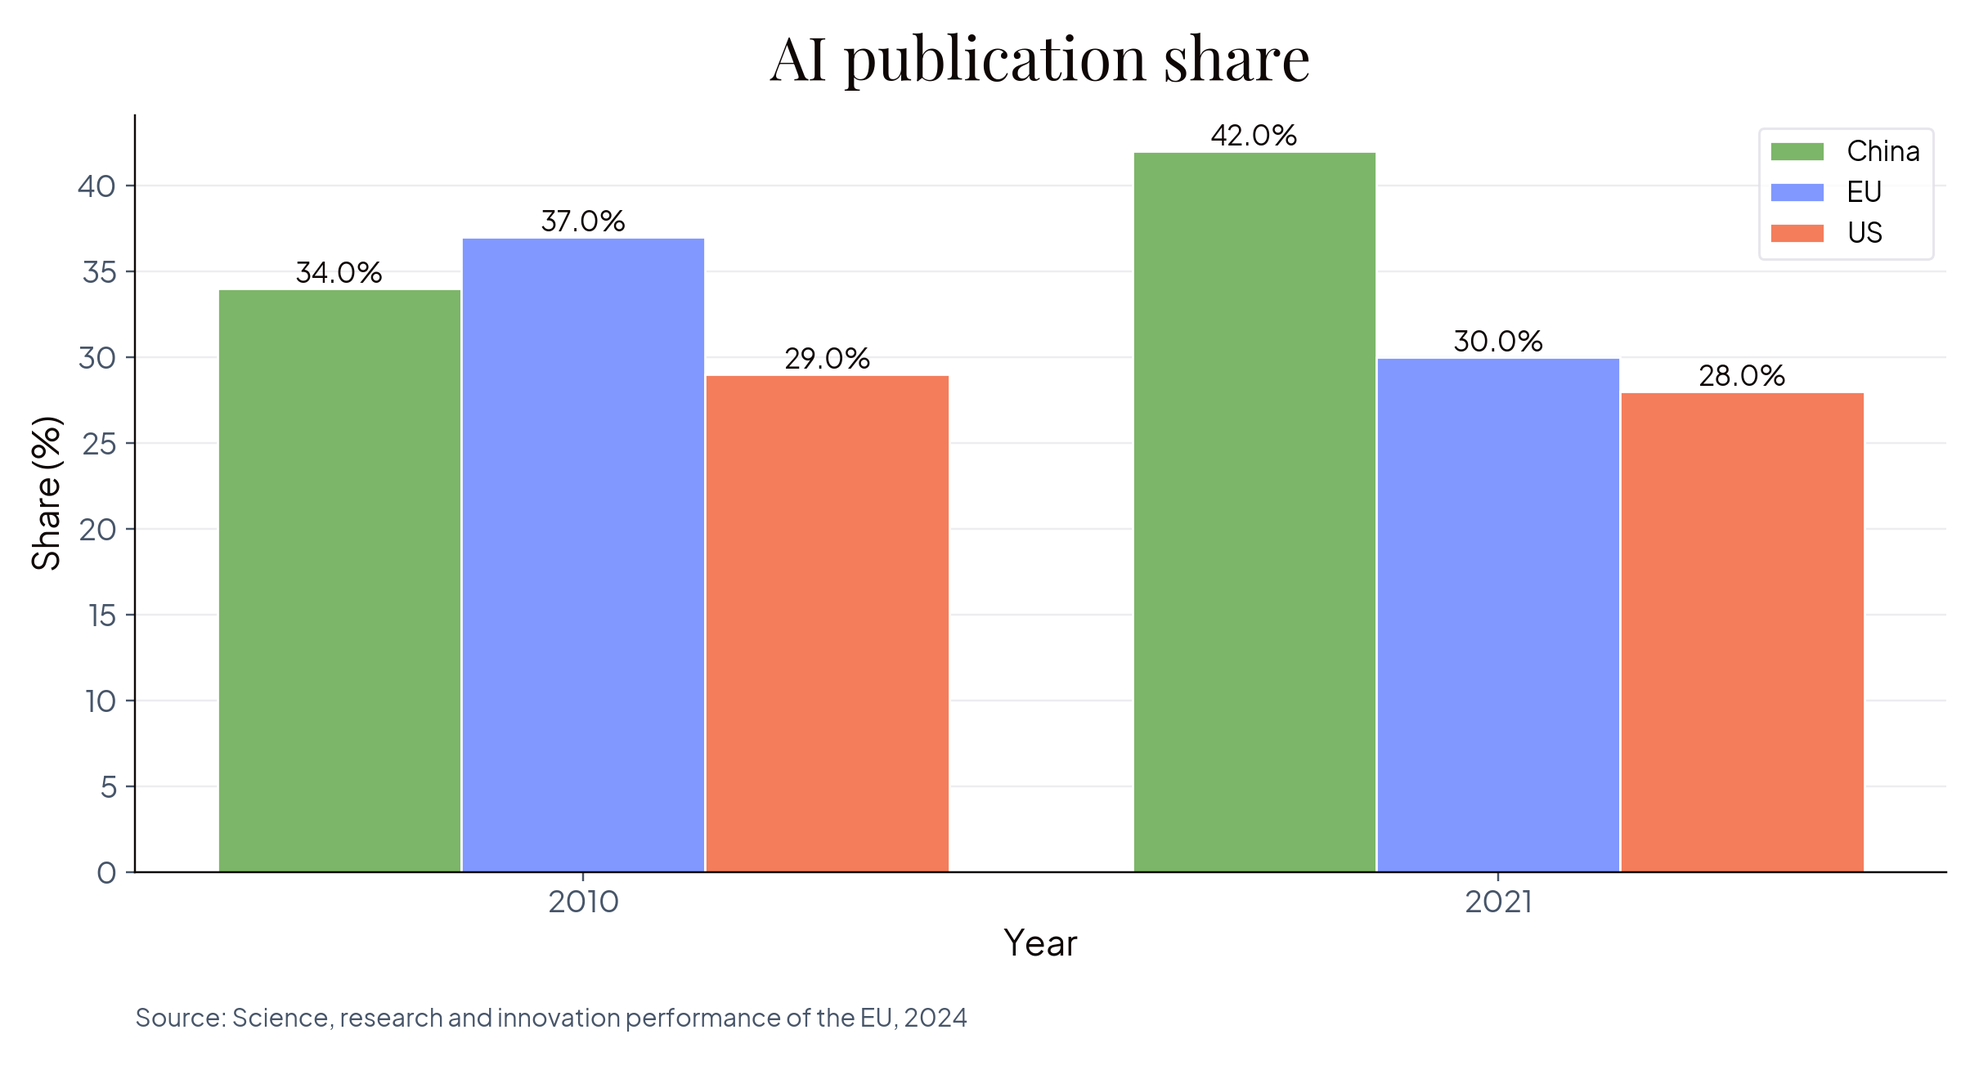
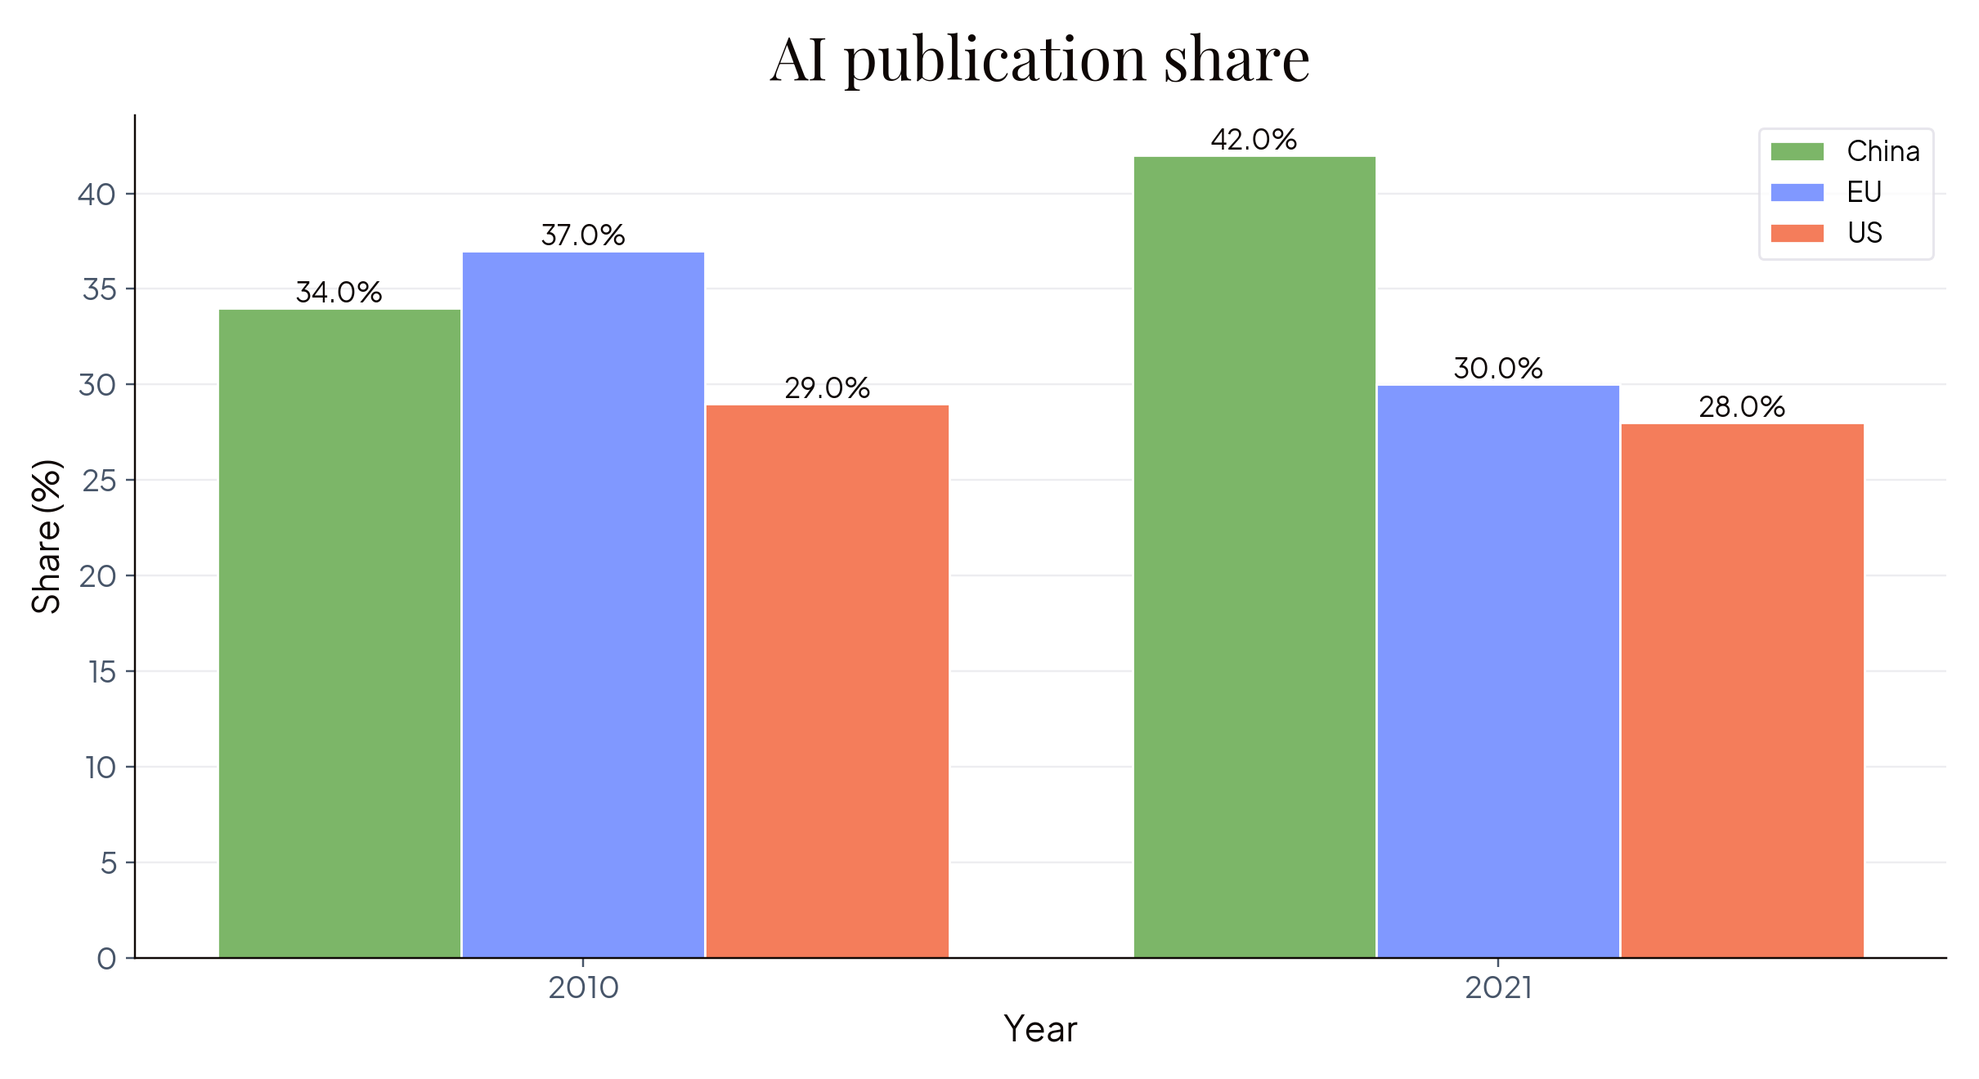
Revise policy slides and remove source annotations from charts
Streamline slide deck: remove placeholder slides, rename "Double R&D
spending" to "Fund all excellent science", expand meta-science and AI
slides with concrete examples, and trim bureaucracy content. Remove
source text from chart images to reduce clutter.

diff --git a/index.html b/index.html
@@ -890,23 +890,7 @@
                 <p class="small-text" style="margin-top: 0.2em;">Source: Heitor Report &mdash; Align Act Accelerate, Sept 2024</p>
             </section>
 
-            <!-- SLIDE 6: Current funding structures block breakthrough innovation -->
-            <section>
-                <div class="slide-header">
-                    <div class="header-left">
-                        <div class="header-line-short"></div>
-                        <div class="header-brand"><strong>c.f.g</strong> <em></em></div>
-                    </div>
-                    <div class="header-right">
-                        <div class="header-line-long"></div>
-                        <div class="header-number"></div>
-                    </div>
-                </div>
-                <h2>Current funding structures block breakthrough innovation</h2>
-                <p style="font-size: 0.7em; color: #475569; margin-bottom: 0.6em;">[To be added: research on how current funding structures block breakthrough innovation]</p>
-            </section>
-
-            <!-- SLIDE 7: Everyone agrees reform R&D now -->
+            <!-- SLIDE: Everyone agrees reform R&D now -->
             <section>
                 <div class="slide-header">
                     <div class="header-left">
@@ -934,8 +918,8 @@
                 </div>
             </section>
 
-            <!-- SLIDE 8: Framework Programmes -->
-            <section>
+            <!-- SLIDE: Section Break - The opportunity -->
+            <section class="center-slide section-break" data-background-image="images/section-break-background.png" data-background-size="cover" data-background-position="center">
                 <div class="slide-header">
                     <div class="header-left">
                         <div class="header-line-short"></div>
@@ -946,28 +930,10 @@
                         <div class="header-number"></div>
                     </div>
                 </div>
-                <h2>Framework Programmes are Europe's main R&amp;D instrument</h2>
-                <p style="font-size: 0.6em; color: #475569; margin-bottom: 0.2em;"><em>Timeline: FP1 (1984) &rarr; FP10 (2028)</em></p>
-                <div class="two-column">
-                    <div class="col">
-                        <p><strong>Framework Programmes</strong> are the EU's multi-year research and innovation funding instruments: Europe's way of coordinating and funding science at continental scale.</p>
-                        <ul>
-                            <li><strong>7-year cycles</strong> aligned with EU budget (Multiannual Financial Framework)</li>
-                            <li><strong>Cross-border collaboration:</strong> Typically requires consortia from multiple member states</li>
-                            <li><strong>Competitive funding:</strong> Open calls, peer review, excellence-based selection</li>
-                            <li><strong>Bottom-up + top-down:</strong> Mix of researcher-led proposals and strategic priorities (Missions)</li>
-                        </ul>
-                    </div>
-                    <div class="col">
-                        <p><strong>Evolution:</strong> Started modest in 1984 (FP1: &euro;3.8B), now reaching &euro;175B (FP10): a <strong>46x increase</strong></p>
-                        <div class="key-insight" style="margin-top: 0.6em;">
-                            <strong>Think of it as:</strong> Europe's R&amp;D operating system, the infrastructure layer that funds everything from blue-sky physics to climate tech startups.
-                        </div>
-                    </div>
-                </div>
+                <h1 class="section-title">The opportunity</h1>
             </section>
 
-            <!-- SLIDE 9: FP10 represents 25% of European public R&D -->
+            <!-- SLIDE: FP10: €175 billion over 7 years -->
             <section>
                 <div class="slide-header">
                     <div class="header-left">
@@ -979,30 +945,12 @@
                         <div class="header-number"></div>
                     </div>
                 </div>
-                <h2>FP10 represents 25% of European public R&amp;D</h2>
-                <div class="two-column">
-                    <div class="col">
-                        <p><strong>European public R&amp;D landscape:</strong></p>
-                        <ul>
-                            <li><strong>Total EU public R&amp;D spend:</strong> ~&euro;100B annually (all member states combined)</li>
-                            <li><strong>FP10:</strong> &euro;175B over 7 years = <strong>&euro;25B/year</strong> (roughly 25% of European public R&amp;D)</li>
-                            <li><strong>National programmes:</strong> Germany (~&euro;40B/yr), France (~&euro;20B/yr), others vary widely</li>
-                            <li><strong>Comparison:</strong> US NSF (~&euro;8B/yr), NIH (~&euro;40B/yr), total US federal R&amp;D (~&euro;140B/yr)</li>
-                        </ul>
-                    </div>
-                    <div class="col">
-                        <p><strong>Why FP matters disproportionately:</strong></p>
-                        <ul>
-                            <li><strong>Sets standards:</strong> National programmes often follow FP structures and priorities</li>
-                            <li><strong>Enables scale:</strong> Cross-border projects impossible at national level (CERN, EuroHPC, clinical trials)</li>
-                            <li><strong>Strategic direction:</strong> Missions and challenges signal where Europe thinks science should go</li>
-                            <li><strong>Talent magnet:</strong> Horizon grants carry prestige, attract top researchers</li>
-                        </ul>
-                        <div class="key-insight" style="margin-top: 0.4em;">
-                            <strong>The catch:</strong> Despite significant funding, Europe's <strong>innovation output lags inputs</strong>, especially in translating research to commercial success.
-                        </div>
-                    </div>
-                </div>
+                <h2>FP10: &euro;175 billion over 7 years</h2>
+                <ul style="font-size: 0.7em; padding-left: 1.2em; max-width: 900px; line-height: 1.6;">
+                    <li>The largest coordinated research programme in the world</li>
+                    <li>Sets the template that national programmes follow</li>
+                    <li>Decisions made in the next 18 months lock in European science through 2034</li>
+                </ul>
             </section>
 
             <!-- SLIDE 10: Four bottlenecks block European innovation -->
@@ -1051,10 +999,6 @@
                             <li>No equivalent of NIH or NSF as unifying institution</li>
                         </ul>
                     </div>
-                </div>
-                <div class="key-insight" style="margin-top: 0.4em;">
-                    <strong>Draghi Report:</strong> &ldquo;The innovation gap stems from funding structures that discourage risk-taking, not insufficient investment.&rdquo;<br>
-                    <strong>Translation: We can fix this without spending more: we need to spend smarter.</strong>
                 </div>
             </section>
 
@@ -1122,8 +1066,8 @@
                 <h2>Four policies can help close Europe's scientific gap</h2>
                 <div style="display: flex; gap: 0.6em; font-size: 0.6em; margin-top: 0.5em;">
                     <div style="flex: 1; background: white; padding: 0.8em; border-radius: 8px; border: 1.5px solid #e2e0e8; border-top: 3.5px solid var(--yellow-dark);">
-                        <h3 style="margin-bottom: 0.3em;">1. Double R&amp;D spending</h3>
-                        <p>Match US/China investment levels</p>
+                        <h3 style="margin-bottom: 0.3em;">1. Fund all excellent science</h3>
+                        <p>Right now, we reject 71% of proposals our own reviewers call excellent</p>
                     </div>
                     <div style="flex: 1; background: white; padding: 0.8em; border-radius: 8px; border: 1.5px solid #e2e0e8; border-top: 3.5px solid var(--red);">
                         <h3 style="margin-bottom: 0.3em;">2. Create a European ARPA</h3>
@@ -1144,7 +1088,7 @@
                 </div>
             </section>
 
-            <!-- SLIDE: Double R&D spending -->
+            <!-- SLIDE: Fund all excellent science -->
             <section>
                 <div class="slide-header">
                     <div class="header-left">
@@ -1156,18 +1100,14 @@
                         <div class="header-number"></div>
                     </div>
                 </div>
-                <h2>Double R&amp;D spending to match competitors</h2>
+                <h2>Fund all excellent science</h2>
                 <div style="font-size: 0.7em; max-width: 900px;">
-                    <p><strong>The gap:</strong> Europe spends 2.2% of GDP on R&amp;D vs 3.5% in US, 2.4% in China (but rising fast)</p>
-                    <p style="margin-top: 0.5em;"><strong>What this means:</strong></p>
                     <ul style="padding-left: 1.2em; line-height: 1.6;">
-                        <li>Draghi Report recommendation: Increase to match competitors</li>
-                        <li>FP10 nearly doubles to &euro;175B, but member states must also step up</li>
-                        <li>Target: &euro;200B+ annually across EU (currently ~&euro;100B)</li>
+                        <li><strong>71% of proposals rated &ldquo;excellent&rdquo; by peer reviewers go unfunded</strong> due to budget constraints (Horizon 2020 ex-post evaluation)</li>
+                        <li>Horizon 2020 would have needed an additional &euro;159 billion to fund all high-quality proposals it received</li>
+                        <li>This isn't a quality problem. Europe produces excellent science. It just refuses to pay for it.</li>
+                        <li>The Heitor Report recommends: increase FP budget to &euro;220 billion + use Seals of Excellence so member states co-fund what the EU can't</li>
                     </ul>
-                    <div class="key-insight" style="margin-top: 0.6em;">
-                        <strong>Why it matters:</strong> You can't win the innovation race while spending half what competitors do.
-                    </div>
                 </div>
             </section>
 
@@ -1205,11 +1145,18 @@
                     </div>
                 </div>
                 <h2>Build a meta-science unit to reform funding</h2>
-                <ul style="font-size: 0.7em; padding-left: 1.2em; max-width: 900px; line-height: 1.6;">
-                    <li>Test and compare different funding mechanisms</li>
-                    <li>Import proven innovations: lotteries, distributed peer review, golden tickets</li>
-                    <li>Make Europe the lab for research funding reform</li>
-                </ul>
+                <div style="font-size: 0.65em; max-width: 1000px;">
+                    <p style="margin-bottom: 0.4em;"><strong>The core insight:</strong> We test the science we fund, but we never test <em>how</em> we fund science. We have no systematic evidence on which funding mechanisms produce the best outcomes.</p>
+                    <p style="margin-bottom: 0.2em;"><strong>What it would do:</strong></p>
+                    <ul style="padding-left: 1.2em; line-height: 1.5; margin-bottom: 0.4em;">
+                        <li>Run randomised experiments comparing different ways of allocating grants</li>
+                        <li>Example: The Volkswagen Foundation already runs lottery-based selection for high-risk proposals &mdash; does it produce better science than peer review?</li>
+                        <li>Example: Distributed peer review (researchers review each other instead of panels) &mdash; does it reduce bias and cost?</li>
+                        <li>Example: Golden tickets, where a single reviewer can fast-track a proposal &mdash; does it catch genius that committees miss?</li>
+                    </ul>
+                    <p style="margin-bottom: 0.3em;"><strong>Where does it sit?</strong> The Heitor Report proposes an &ldquo;experimental unit&rdquo; inside FP10 with maximum flexibility from Commission rules, a significant budget, and the ability to collaborate with any Horizon programme.</p>
+                    <p><strong>What exists already:</strong> The UK's Research on Research Institute (RORI), NSF's internal experiments, the Volkswagen Foundation's lottery pilots. Europe doesn't need to invent this from scratch &mdash; it needs to adopt it at scale.</p>
+                </div>
             </section>
 
             <!-- SLIDE: Use AI to speed up science -->
@@ -1224,12 +1171,27 @@
                         <div class="header-number"></div>
                     </div>
                 </div>
-                <h2>Use AI to speed up science</h2>
-                <ul style="font-size: 0.7em; padding-left: 1.2em; max-width: 900px; line-height: 1.6;">
-                    <li>Reduce bureaucratic burden that currently drowns applicants</li>
-                    <li>Follow NSF's lead in building internal AI platforms</li>
-                    <li>Free up researcher time for actual research</li>
-                </ul>
+                <h2>Use AI to accelerate scientific discovery</h2>
+                <div style="font-size: 0.6em; max-width: 1050px;">
+                    <p style="margin-bottom: 0.2em;"><strong>The opportunity is enormous:</strong></p>
+                    <ul style="padding-left: 1.2em; line-height: 1.45; margin-bottom: 0.4em;">
+                        <li>AlphaFold predicts protein structures in minutes for ~$0.75 that took years of experimental work, and won a Nobel Prize</li>
+                        <li>GraphCast produces 10-day global weather forecasts in under 60 seconds, outperforming the European gold standard, for ~$0.02</li>
+                    </ul>
+                    <p style="margin-bottom: 0.2em;"><strong>Two layers of AI in science need different investments:</strong></p>
+                    <ul style="padding-left: 1.2em; line-height: 1.45; margin-bottom: 0.4em;">
+                        <li><strong>Scientific foundation models</strong> (AlphaFold, GraphCast): Model nature itself, create capabilities that didn't exist before. Europe has the data and infrastructure (EuroHPC) to build these.</li>
+                        <li><strong>AI scientist systems</strong> (Google's CoScientist, Kosmos): Orchestrate the scientific process, from hypothesis generation to experimental design. Could compress research timelines from years to months.</li>
+                    </ul>
+                    <p style="margin-bottom: 0.2em;"><strong>The competitive gap is real:</strong></p>
+                    <ul style="padding-left: 1.2em; line-height: 1.45; margin-bottom: 0.4em;">
+                        <li>The US Genesis Mission (Nov 2025) frames AI as a &ldquo;new Apollo Project&rdquo; for science: transformation at system scale</li>
+                        <li>OpenAI, Anthropic, and Google DeepMind all now treat scientific discovery as a core use case</li>
+                    </ul>
+                    <div class="key-insight" style="margin-top: 0.3em;">
+                        <strong>The implication for FP10:</strong> There is a real chance that by 2030, the way science is done looks fundamentally different from today. FP10 cannot just experiment with AI on the side: it needs to be designed so that AI-enabled research can become a core part of how the programme operates, not bolted on after the fact. That means building in the flexibility now to scale what works, so that if breakthroughs continue, Europe's funding infrastructure can keep pace.
+                    </div>
+                </div>
             </section>
 
             <!-- SLIDE: Cut bureaucracy to the absolute minimum -->
@@ -1245,23 +1207,17 @@
                     </div>
                 </div>
                 <h2>Cut bureaucracy to the absolute minimum</h2>
-                <div class="highlight-box" style="font-size: 0.6em; margin-bottom: 0.5em; border-left-color: var(--purple);">
-                    <p><strong>Heitor Report (October 2024)</strong></p>
-                    <p style="font-style: italic;">&ldquo;Radical simplification and user orientation with a clear focus on efficiency and impact can, and must, make the framework programme a flagship for promoting research, technology and innovation, not just in terms of size but also in terms of execution.&rdquo;</p>
-                </div>
-                <p style="font-size: 0.65em; margin-bottom: 0.3em;"><strong>The numbers (Heitor Report, Box 9.2):</strong></p>
+                <p style="font-size: 0.65em; margin-bottom: 0.3em;"><strong>The numbers:</strong></p>
                 <ul style="font-size: 0.65em; padding-left: 1.2em; max-width: 1000px; line-height: 1.5; margin-bottom: 0.4em;">
-                    <li>Writing one application takes <strong>36&ndash;45 person-days</strong> for the lead applicant, plus <strong>16&ndash;25 days per partner</strong></li>
-                    <li>Success rate: <strong>17%</strong> &mdash; the vast majority of that effort is wasted</li>
-                    <li>Once funded, administrative costs run to <strong>6&ndash;12% of project budgets</strong>; 10% of projects report over 20%</li>
+                    <li>Writing one application takes <strong>36&ndash;45 person-days</strong> for the lead applicant, plus <strong>16&ndash;25 days per partner</strong>.</li>
+                    <li>Success rate: <strong>17%</strong>. The vast majority of this effort goes nowhere.</li>
+                    <li>Once funded, administrative costs run to <strong>6&ndash;12% of project budgets</strong>; 10% of projects report over 20%.</li>
                 </ul>
-                <p style="font-size: 0.65em; margin-bottom: 0.3em;"><strong>What this looks like in practice:</strong></p>
+                <p style="font-size: 0.65em; margin-bottom: 0.3em;"><strong>How?</strong></p>
                 <ul style="font-size: 0.65em; padding-left: 1.2em; max-width: 1000px; line-height: 1.5;">
-                    <li><strong>&ldquo;Trust first, evaluate later&rdquo;:</strong> Radical reform of the application system &mdash; less upfront documentation, more post-hoc accountability</li>
+                    <li><strong>&ldquo;Trust first, evaluate later&rdquo;:</strong> Radical reform of the application system, less upfront documentation, more post-hoc accountability</li>
                     <li><strong>Less prescriptive calls:</strong> Stop requiring applicants to analyse economic and social impacts in applications; focus on needs and functions instead</li>
-                    <li><strong>Eliminate redundant programmes:</strong> EIT and EIE flagged as costly in administrative resources relative to impact</li>
-                    <li><strong>Fix cost accounting:</strong> Simplified lump-sum financing and unit costs for personnel, currently criticised widely but not yet implemented well</li>
-                    <li><strong>Use AI immediately:</strong> To speed up application processing and peer review</li>
+                    <li><strong>Adjust to AI immediately:</strong> To speed up application processing and peer review. This is urgent: as AI makes it easier to generate applications, proposal volumes will increase. If evaluation doesn't also adopt AI, the bureaucratic burden gets worse, not better.</li>
                 </ul>
             </section>
 

diff --git a/scripts/plot_science_report_graphs.py b/scripts/plot_science_report_graphs.py
@@ -277,19 +277,6 @@ def main():
         fig.patch.set_alpha(0.0)
         ax.patch.set_alpha(0.0)
 
-        source = g["Source"].dropna().astype(str).str.strip().iloc[0] if "Source" in g.columns and not g["Source"].dropna().empty else ""
-        if source:
-            ax.text(
-                0.0,
-                -0.18,
-                f"Source: {source}",
-                transform=ax.transAxes,
-                fontsize=SOURCE_SIZE,
-                color="#475569",
-                ha="left",
-                va="top",
-            )
-
         plt.tight_layout()
         out_path = out_dir / f"{sanitize_filename(indicator)}.png"
         fig.savefig(out_path, dpi=220, transparent=True)
@@ -303,9 +290,6 @@ def main():
         fig, ax = plot_single_year_multiregion(rd, unit, title_font)
         fig.patch.set_alpha(0.0)
         ax.patch.set_alpha(0.0)
-        source = rd["Source"].dropna().astype(str).str.strip().iloc[0] if "Source" in rd.columns and not rd["Source"].dropna().empty else ""
-        if source:
-            ax.text(0.0, -0.18, f"Source: {source}", transform=ax.transAxes, fontsize=SOURCE_SIZE, color="#475569", ha="left", va="top")
         plt.tight_layout()
         out_path = out_dir / "r_d_spending_2022.png"
         fig.savefig(out_path, dpi=220, transparent=True)
